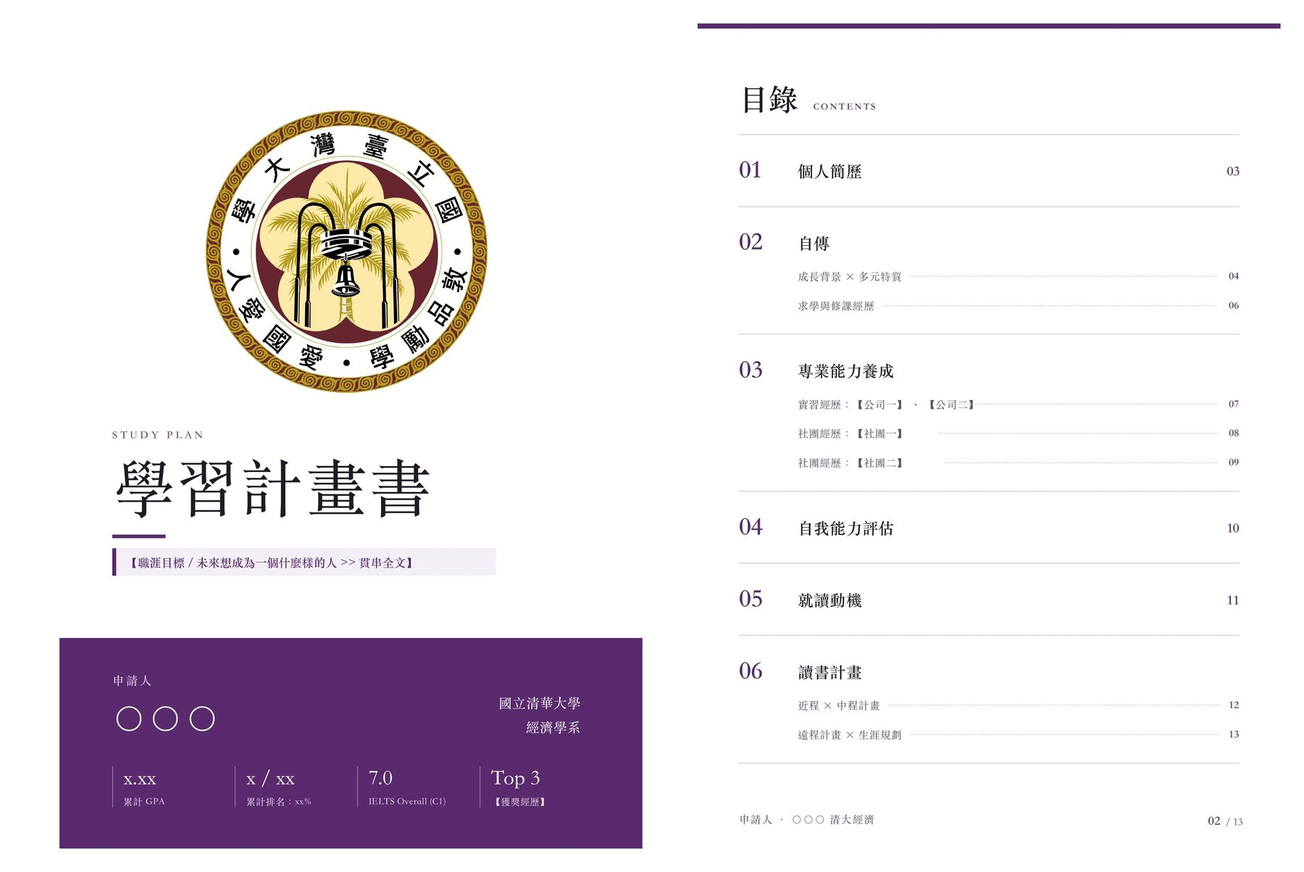
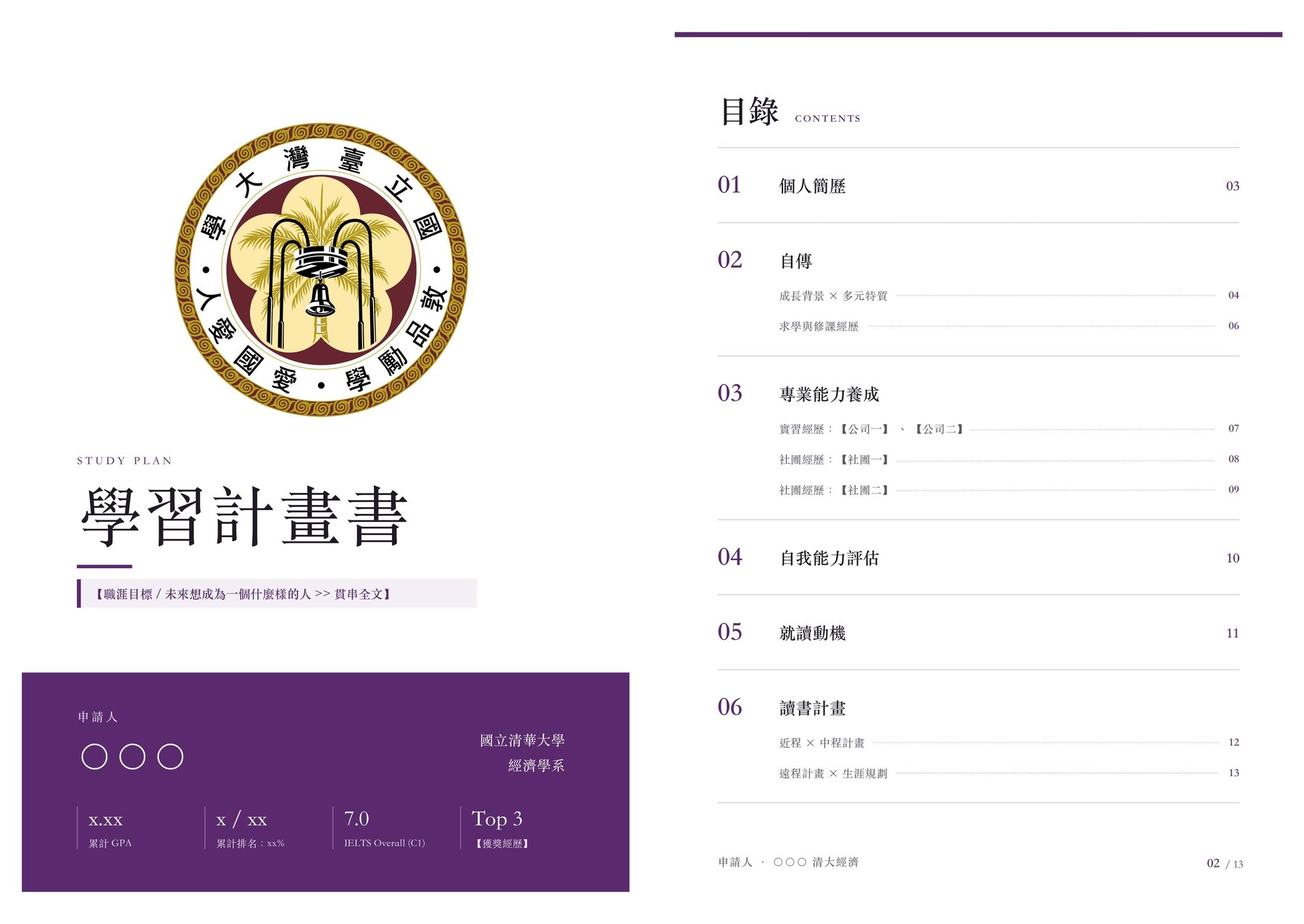
New 書審 images + 其他有利; uniform my.html column; 116 waitlist order; pin catch-up; review count; interview stage folds

diff --git a/interview.html b/interview.html
@@ -8,7 +8,7 @@
 <meta content="Royee Chu" name="author"/>
 <meta content="台大商研所、國企所推甄口試：面試題型、準備方式，以及 106–116 學年度心得文。" name="description"/>
 <script>try{var t=localStorage.getItem("theme");if(t)document.documentElement.dataset.theme=t}catch(e){}</script>
-<link href="assets/site.css?v=1795618161" rel="stylesheet"/>
+<link href="assets/site.css?v=1795760256" rel="stylesheet"/>
 <style>
 .fmt{display:grid;grid-template-columns:repeat(auto-fit,minmax(300px,1fr));gap:32px 48px}
 .fmt h3{display:flex;justify-content:space-between;align-items:baseline;padding-bottom:8px;border-bottom:2px solid var(--rule)}
@@ -21,6 +21,23 @@
 .fmt h3 .mins{color:var(--muted);font-size:13.5px;font-weight:700}
 .fmt [data-d="ba"] .stages li::before{color:var(--ba)}
 .fmt [data-d="ib"] .stages li::before{color:var(--ib)}
+.stages li>details{min-width:0}
+.stg summary{list-style:none;cursor:pointer;display:grid;grid-template-columns:1fr auto 18px;gap:12px;align-items:start}
+.stg summary::-webkit-details-marker{display:none}
+.stg summary::after{content:"+";font-size:20px;font-weight:400;line-height:1.2;color:var(--muted);text-align:right}
+.stg[open] summary::after{content:"−"}
+.fmt [data-d="ba"] .stg summary::after{color:var(--ba)}
+.fmt [data-d="ib"] .stg summary::after{color:var(--ib)}
+.stg .who{font-size:13.5px;font-weight:700;white-space:nowrap;padding-top:2px}
+.stg .who small{font-weight:400;color:var(--muted);margin-left:2px}
+.stg .body{margin-top:10px;padding:12px 14px;background:var(--bg-soft);border-radius:6px;font-size:14.5px;display:grid;gap:6px}
+.stg .body:empty{display:none}
+.stg .body .how{color:var(--muted);font-size:13.5px}
+.stg .body ol{margin:0;padding-left:20px;display:grid;gap:4px}
+.stg .body ol li{display:list-item;padding:0;border:0}
+.stg .body ol li::before{content:none}
+.stg:not(.has) summary{cursor:default}
+.stg:not(.has) summary::after{content:""}
 .more{border-bottom:1px solid var(--line)}
 .more summary{list-style:none;cursor:pointer;display:flex;justify-content:space-between;align-items:center;padding:12px 0;font-weight:800}
 .more summary::-webkit-details-marker{display:none}
@@ -59,26 +76,24 @@
 <div class="stack">
 <section>
 <div class="sec-head"><h2><span class="no">01</span>題型<small>以 116 為例</small></h2></div>
-<div class="fmt" style="max-width: none;">
+<div class="fmt">
 <div data-d="ba">
-<h3><span class="hl-ba" data-k="interview.010">商研</span> <span class="mins" data-k="interview.011">每關 4 分鐘</span></h3>
+<h3><span class="hl-ba" data-k="interview.010">商研</span> <span class="mins" data-k="interview.011">三關・每關 4 分鐘</span></h3>
 <ol class="stages">
-<li><div><b data-k="interview.012">個人關</b><span data-k="interview.013">根據個人資料表提問，一分鐘自介、就讀動機、對系所的了解</span></div></li>
-<li><div><b data-k="interview.014">英文關</b><span data-k="interview.015">自行閱讀一分鐘，摘要後回答教授追問</span></div></li>
-<li><div><b data-k="interview.016">邏輯關</b><span data-k="interview.017">立場討論，自行思考一段時間後，選一個立場說明、教授追問</span></div></li>
+<li><details class="stg"><summary><div><b data-k="interview.012">個人關</b><span data-k="interview.013">一分鐘自介，再依個人資料表追問動機與對系所的了解</span></div><span class="who" data-nokey=""></span></summary><div class="body" data-nokey=""></div></details></li>
+<li><details class="stg"><summary><div><b data-k="interview.014">英文關</b><span data-k="interview.015">五題抽一，閱讀約一分鐘後摘要、回答追問</span></div><span class="who" data-nokey=""></span></summary><div class="body" data-nokey=""></div></details></li>
+<li><details class="stg"><summary><div><b data-k="interview.016">邏輯關</b><span data-k="interview.017">九題抽一，選一個立場說明，教授再追問</span></div><span class="who" data-nokey=""></span></summary><div class="body" data-nokey=""></div></details></li>
 </ol>
-<details class="more" data-src="ba" data-what="q116" open=""><summary data-k="interview.018">116 題目</summary><div class="body" data-nokey="">載入中…</div></details>
-<details class="more" data-src="ba" data-what="tl" open=""><summary data-k="interview.019">近五年面試官</summary><div class="body" data-nokey="">載入中…</div></details>
+<details class="more" data-src="ba" data-what="tl"><summary data-k="interview.019">近五年面試官</summary><div class="body" data-nokey="">載入中…</div></details>
 </div>
 <div data-d="ib">
-<h3><span class="hl-ib" data-k="interview.020">國企</span> <span class="mins" data-k="interview.021">每關 5 分鐘</span></h3>
+<h3><span class="hl-ib" data-k="interview.020">國企</span> <span class="mins" data-k="interview.021">三關・每關 5 分鐘</span></h3>
 <ol class="stages">
-<li><div><b data-k="interview.022">英文關</b><span data-k="interview.023">A4 單面文章讀 2.5 分鐘，摘要後回答教授追問</span></div></li>
-<li><div><b data-k="interview.024">邏輯關</b><span data-k="interview.025">個案分析，今年是針對公司財務虧損進行討論</span></div></li>
-<li><div><b data-k="interview.026">個人關</b><span data-k="interview.027">今年無自介，根據成績單和個人資料表提問</span></div></li>
+<li><details class="stg"><summary><div><b data-k="interview.022">英文關</b><span data-k="interview.023">閱讀 A4 單面文章 2.5 分鐘，摘要後討論</span></div><span class="who" data-nokey=""></span></summary><div class="body" data-nokey=""></div></details></li>
+<li><details class="stg"><summary><div><b data-k="interview.024">邏輯關</b><span data-k="interview.025">個案分析，116 是咖啡品牌的財報虧損</span></div><span class="who" data-nokey=""></span></summary><div class="body" data-nokey=""></div></details></li>
+<li><details class="stg"><summary><div><b data-k="interview.026">個人關</b><span data-k="interview.027">沒有自介，依成績單與個人資料表提問</span></div><span class="who" data-nokey=""></span></summary><div class="body" data-nokey=""></div></details></li>
 </ol>
-<details class="more" data-src="ib" data-what="q116" open=""><summary data-k="interview.028">116 題目</summary><div class="body" data-nokey="">載入中…</div></details>
-<details class="more" data-src="ib" data-what="tl" open=""><summary data-k="interview.029">近五年面試官</summary><div class="body" data-nokey="">載入中…</div></details>
+<details class="more" data-src="ib" data-what="tl"><summary data-k="interview.029">近五年面試官</summary><div class="body" data-nokey="">載入中…</div></details>
 </div>
 </div>
 </section>
@@ -164,6 +179,23 @@
     return new Function(code.slice(0,code.indexOf("const $="))+"\nreturn {Q116,TL};")();
   }));
   const mk=(t,c,x)=>{const e=document.createElement(t);if(c)e.className=c;if(x!=null)e.textContent=x;return e};
+  /* 每一關：摘要列顯示 116 面試官，點開看該關題目 */
+  const CATK=k=>/英文/.test(k)?"英文":/個人|基本資料|生涯/.test(k)?"個人":"邏輯";
+  if(!(window.frameElement&&window.frameElement.id==="ed"))document.querySelectorAll(".fmt [data-d]").forEach(async blk=>{
+    try{
+      const data=await load(blk.dataset.d);
+      blk.querySelectorAll("details.stg").forEach(det=>{
+        const st=data.Q116.stages.find(x=>CATK(x.kind)===CATK(det.querySelector("summary b").textContent));if(!st)return;
+        const w=det.querySelector(".who");w.textContent=st.who;if(!st.who.includes("未知"))w.appendChild(mk("small",null,"教授"));
+        const body=det.querySelector(".body");body.textContent="";
+        const how=mk("p","how",st.how);
+        if(st.topic){how.append(" 文章：");if(st.link){const a=mk("a",null,st.topic);a.href=st.link;a.target="_blank";a.rel="noopener";how.appendChild(a)}else how.append(st.topic)}
+        body.appendChild(how);
+        const ol=mk("ol");st.q.forEach(q=>ol.appendChild(mk("li",null,q)));body.appendChild(ol);det.classList.add("has");
+      });
+    }catch(e){}
+  });
+  document.querySelectorAll("details.stg").forEach(det=>det.querySelector("summary").addEventListener("click",e=>{if(!det.classList.contains("has"))e.preventDefault()}));
   document.querySelectorAll("details.more").forEach(det=>det.addEventListener("toggle",async()=>{
     if(!det.open||det.dataset.done)return;
     const body=det.querySelector(".body");
@@ -189,8 +221,9 @@
       det.dataset.done="1";
     }catch(e){body.textContent="載入失敗，請重新整理再試"}
   }));
+  document.querySelectorAll("details.more[open]").forEach(d=>d.dispatchEvent(new Event("toggle")));
 })();
 </script>
-<script src="assets/site.js?v=1795618161"></script>
+<script src="assets/site.js?v=1795760256"></script>
 </body>
 </html>

diff --git a/my.html b/my.html
@@ -6,7 +6,7 @@
 <title>個人心得｜推甄分享｜台大商研、台大國企</title>
 <meta content="116 學年度台大商研、台大國企推甄：口試紀錄、口試與書審準備、推甄心得。" name="description"/>
 <script>try{var t=localStorage.getItem("theme");if(t)document.documentElement.dataset.theme=t}catch(e){}</script>
-<link href="assets/site.css?v=1795618161" rel="stylesheet"/>
+<link href="assets/site.css?v=1795760256" rel="stylesheet"/>
 <link rel="icon" href="favicon-32.png" type="image/png" sizes="32x32" />
 <link rel="icon" href="favicon.svg" type="image/svg+xml" />
 </head>
@@ -38,37 +38,37 @@
     <div class="prose">
     
 
-    <h3 class="stage-h" style="max-width: 700px;"><span>一、個人關<span class="who">許鉅秉教授</span></span><small>針對個人資料表提問</small></h3>
-    <ol class="qa" style="max-width: 700px;">
+    <h3 class="stage-h"><span>一、個人關<span class="who">許鉅秉教授</span></span><small>針對個人資料表提問</small></h3>
+    <ol class="qa">
       <li><p class="q">請先用一分鐘的時間介紹一下自己</p><ul class="a"><li>：教授早安，我是 OOO，很高興再次參與商研所的口試。教授打斷：再次？你不是大四嗎？</li><li>我簡單說明去年是大三推甄，繼續把自介說完。</li></ul></li>
       <li><p class="q">你覺得你去年申請跟今年有什麼不一樣？</p><ul class="a"><li>我分兩點回答：這一年做了什麼，以及有什麼轉變。</li><li>這一年做了什麼：軟性 networking＋實習 → 確立自己的職涯發展方向、並再度提到讀研動機。</li><li>轉變：職涯方向、個人心態都有轉變 → 商研所仍是我的第一志願。</li></ul></li>
       <li><p class="q">你說你想要走供應鏈，你知道我們系所有哪些教授可以幫助到你嗎？</p><ul class="a"><li>我準備了 3–4 位：最主要是ＯＯ教授（講得比較詳細），其他幾位則分別在供應鏈的ＸＸ領域可以幫助我。<br></li><li>*許教授的研究專長是物流管理，所以也有提到他本人。</li></ul></li>
       <li><p class="q">那好像也沒什麼問題可以問了，時間也快到了。</p><ul class="a"><li>：？？真的嗎，好的。那再次感謝教授願意再給我一次機會，謝謝。</li></ul></li>
     </ol>
-    <p class="after" style="max-width: 700px;">去年的個人關也是許教授，出題方向也與往年一致。以結果而言，很感謝他有看到我的成長。</p>
+    <p class="after">去年的個人關也是許教授，出題方向也與往年一致。以結果而言，很感謝他有看到我的成長。</p>
 
-    <h3 class="stage-h" style="max-width: 700px;"><span>二、英文關<span class="who">劉怡靖教授</span></span><small>抽題、摘要與追問</small></h3>
-    <ol class="qa" style="max-width: 700px;">
+    <h3 class="stage-h"><span>二、英文關<span class="who">劉怡靖教授</span></span><small>抽題、摘要與追問</small></h3>
+    <ol class="qa">
       <li class="pre"><p class="q">桌上有五題，我拿了正中間的題目，自行閱讀一分鐘後回答問題。</p><ul class="a"><li>已知可能讀不太完就用掃的，結果根本不知道什麼是 Target，還以為是百貨公司⋯⋯</li><li>文章：<a href="https://www.businessinsider.com/target-revamped-soho-store-in-new-york-photos-2026-10" target="_blank" rel="noopener">Target revamped SoHo store in New York</a></li></ul></li>
       <li><p class="q">請摘要這篇文章。</p><ul class="a"><li>：大概是在說 Target 把日用品擺到店內最主要的區域。</li></ul></li>
       <li><p class="q">你覺得 Target 為什麼會做這樣的調整？會帶來什麼影響？</p><ul class="a"><li>：我印象中是說可以增加銷量，顧客也能更快買到想要的東西。</li></ul></li>
       <li><p class="q">你覺得 Target 的做法有什麼風險？</p><ul class="a"><li>：可能犧牲高單價商品的銷量，如果日用品銷量沒有衝起來，營收反而會下降。</li></ul></li>
     </ol>
-    <p class="after" style="max-width: 960px;">我根本亂答一通⋯⋯，教授全程沒什麼表情。</p>
+    <p class="after">我根本亂答一通⋯⋯，教授全程沒什麼表情。</p>
 
-    <h3 class="stage-h" style="max-width: 710px;"><span>三、邏輯關<span class="who">柯冠州教授</span></span><small>抽題、選擇立場與追問</small></h3>
-    <ol class="qa" style="max-width: 710px;">
+    <h3 class="stage-h"><span>三、邏輯關<span class="who">柯冠州教授</span></span><small>抽題、選擇立場與追問</small></h3>
+    <ol class="qa">
       <li class="pre"><p class="q">桌上有九題，我一樣拿了正中間的。看完題目後有思考時間，可隨時開始說明。</p></li>
       <li><p class="q">題目大致如下：有些人認為 AI 可以降低創作者的成本，有助影視產業發展；有些人則認為 AI 會摧毀影視產業的創作。選擇一個立場並說明觀點。</p><ul class="a"><li>：我認為是有益的，可以吸引更多人投入創作⋯⋯（說了兩個原因，忘了另一個）；也分析了弊端，市場機制會淘汰劣質的 AI 作品⋯⋯，最後重申利大於弊。</li></ul></li>
       <li><p class="q">追問一：那 AI 可以如何幫助傳統電視、電影產業呢？</p><ul class="a"><li>：短影音之類的（忘記自己說什麼了）⋯⋯</li></ul></li>
       <li><p class="q">追問二：除了這個還有其他方法嗎？</p><ul class="a"><li>：我覺得可以從傳統電視、電影產業的受眾來看⋯⋯</li></ul></li>
     </ol>
-    <p class="after" style="max-width: 710px;">兩題追問都答得不太好，好像也根本沒有把 AI 當成主要的手段，但有盡可能把我腦中思考的脈絡講出來。</p>
+    <p class="after">兩題追問都答得不太好，好像也根本沒有把 AI 當成主要的手段，但有盡可能把我腦中思考的脈絡講出來。</p>
   </div>
   </div>
   <h3 class="rec-dept d-ib">國企<small>三關，各五分鐘</small></h3><div class="rec" data-rec="ib"><div class="prose">
 
-    <h3 class="stage-h" style="max-width: 720px;"><span>一、英文關<span class="who">林宏璋教授</span></span><small>閱讀 A4 單面文章 2.5 分鐘後摘要、討論</small></h3>
+    <h3 class="stage-h"><span>一、英文關<span class="who">林宏璋教授</span></span><small>閱讀 A4 單面文章 2.5 分鐘後摘要、討論</small></h3>
     <ol class="qa">
       <li class="pre"><p class="q">進去前工讀生會給一篇文章。自行閱讀兩分半，聽到敲門聲後回答問題。</p><ul class="a"><li>閱讀時間很充裕，大約還有 30 秒左右的時間可以先想摘要的架構。</li><li>文章：<a href="https://www.bloomberg.com/news/articles/2025-12-04/trump-s-ai-dominance-plans-threatened-by-his-own-attacks-on-solar-wind" target="_blank" rel="noopener">Trump’s AI Dominance Plans Threatened by His Own Attacks on Solar, Wind</a></li></ul></li>
       <li><p class="q">今天過得如何？</p><ul class="a"><li>我回答自己很緊張但也很興奮，試圖展現出自信與熱情，跟教授相視而笑了一下。</li></ul></li>
@@ -86,7 +86,7 @@
     </ol>
 
     <h3 class="stage-h"><span>三、個人關<span class="who">洪茂蔚教授</span></span><small>針對個人履歷提問</small></h3>
-    <ol class="qa" style="max-width: 720px;">
+    <ol class="qa">
       <li class="pre"><p class="q">沒有自我介紹。<small>教授在聽我說話的同時，大約 80% 時間在翻成績單，另外 20% 看個人資料表。</small></p></li>
       <li><p class="q">阿你中央經濟轉到清大又讀經濟哦⋯⋯，說說看你這些社團經驗，有沒有能展現領導力的部分？</p><ul class="a"><li>我舉了兩個社團的例子。都是微調 STAR 架構：縮短 S、T，把重點放在我身為領導者怎麼解決問題。</li><li>教授有釐清、追問兩點，不是什麼刁鑽問題，就稍微跟他解釋了一下。</li></ul></li>
       <li><p class="q">這（成績單）上面有沒有一個你最喜歡 / 收穫最多 / 影響最深，或讓你最後選擇國企所的課程？</p><ul class="a"><li>我的選修課大部分是個經相關、都是 A+，也有跨校修相關課程。可以說是真的有熱忱，職涯目標串成完整的 storyline。</li><li>原本答得很自信，結果反問我：有沒有修國企、國經、全球經濟相關課程⋯⋯。我回答沒有，過去修課以個經為主（對那些沒什麼興趣）。</li></ul></li>
@@ -135,6 +135,6 @@
 </section>
 </div>
 </main>
-<script src="assets/site.js?v=1795618161"></script>
+<script src="assets/site.js?v=1795760256"></script>
 </body>
 </html>

diff --git a/sharing.html b/sharing.html
@@ -8,7 +8,7 @@
 <meta content="Royee Chu" name="author"/>
 <meta content="台大商研所、國企所碩士班甄試：名額、口試資格、應繳資料與歷年時程。" name="description"/>
 <script>try{var t=localStorage.getItem("theme");if(t)document.documentElement.dataset.theme=t}catch(e){}</script>
-<link href="assets/site.css?v=1795618161" rel="stylesheet"/>
+<link href="assets/site.css?v=1795760256" rel="stylesheet"/>
 <style>
 .cmp-scroll{overflow-x:auto}
 table.cmp{border-collapse:collapse;width:100%;min-width:540px;font-size:15px}
@@ -146,14 +146,14 @@ table.cmp.yrs{min-width:0}
 <h3 class="sub-h"><span class="hl-ba" data-k="sharing.107">商研</span></h3>
 <table class="cmp yrs stat">
 <thead><tr><th scope="col"></th><th data-k="sharing.108" scope="col">報名</th><th data-k="sharing.109" scope="col">正取</th><th data-k="sharing.110" scope="col">備取</th><th data-k="sharing.111" scope="col">備取序</th></tr></thead>
-<tbody><tr><th data-k="sharing.112" scope="row">116</th><td data-k="sharing.113">308</td><td data-k="sharing.114">33</td><td data-k="sharing.115">14</td><td><span class="na" data-k="sharing.116">待公布</span></td></tr><tr><th data-k="sharing.117" scope="row">115</th><td data-k="sharing.118">325</td><td data-k="sharing.119">33</td><td data-k="sharing.120">14</td><td data-k="sharing.121"><b class="n-ba">3</b></td></tr><tr><th data-k="sharing.122" scope="row">114</th><td data-k="sharing.123">344</td><td data-k="sharing.124">33</td><td data-k="sharing.125">16</td><td data-k="sharing.126">5</td></tr><tr><th data-k="sharing.127" scope="row">113</th><td data-k="sharing.128">304</td><td data-k="sharing.129">33</td><td data-k="sharing.130">15</td><td data-k="sharing.131">10</td></tr><tr><th data-k="sharing.132" scope="row">112</th><td data-k="sharing.133">267</td><td data-k="sharing.134">33</td><td data-k="sharing.135">15</td><td data-k="sharing.136">4</td></tr></tbody>
+<tbody><tr><th data-k="sharing.112" scope="row">116</th><td data-k="sharing.113">308</td><td data-k="sharing.114">33</td><td data-k="sharing.115">14</td><td data-k="sharing.116"><b class="n-ba">8</b></td></tr><tr><th data-k="sharing.117" scope="row">115</th><td data-k="sharing.118">325</td><td data-k="sharing.119">33</td><td data-k="sharing.120">14</td><td data-k="sharing.121"><b class="n-ba">3</b></td></tr><tr><th data-k="sharing.122" scope="row">114</th><td data-k="sharing.123">344</td><td data-k="sharing.124">33</td><td data-k="sharing.125">16</td><td data-k="sharing.126">5</td></tr><tr><th data-k="sharing.127" scope="row">113</th><td data-k="sharing.128">304</td><td data-k="sharing.129">33</td><td data-k="sharing.130">15</td><td data-k="sharing.131">10</td></tr><tr><th data-k="sharing.132" scope="row">112</th><td data-k="sharing.133">267</td><td data-k="sharing.134">33</td><td data-k="sharing.135">15</td><td data-k="sharing.136">4</td></tr></tbody>
 </table>
 </div>
 <div data-d="ib">
 <h3 class="sub-h"><span class="hl-ib" data-k="sharing.137">國企</span></h3>
 <table class="cmp yrs stat">
 <thead><tr><th scope="col"></th><th data-k="sharing.138" scope="col">報名</th><th data-k="sharing.139" scope="col">正取</th><th data-k="sharing.140" scope="col">備取</th><th data-k="sharing.141" scope="col">備取序</th></tr></thead>
-<tbody><tr><th data-k="sharing.142" scope="row">116</th><td data-k="sharing.143">328</td><td data-k="sharing.144">33</td><td data-k="sharing.145">30</td><td><span class="na" data-k="sharing.146">待公布</span></td></tr><tr><th data-k="sharing.147" scope="row">115</th><td data-k="sharing.148">334</td><td data-k="sharing.149">33</td><td data-k="sharing.150">33</td><td><b class="n-ib" data-k="sharing.151">32</b><small data-k="sharing.152"><mark class="g">缺額 5</mark></small></td></tr><tr><th data-k="sharing.153" scope="row">114</th><td data-k="sharing.154">312</td><td data-k="sharing.155">33</td><td data-k="sharing.156">25</td><td><span data-k="sharing.157">25</span><small data-k="sharing.158">缺額 1</small></td></tr><tr><th data-k="sharing.159" scope="row">113</th><td data-k="sharing.160">298</td><td data-k="sharing.161">33</td><td data-k="sharing.162">25</td><td data-k="sharing.163"><b class="n-ib">14</b></td></tr><tr><th data-k="sharing.164" scope="row">112</th><td data-k="sharing.165">262</td><td data-k="sharing.166">33</td><td data-k="sharing.167">25</td><td data-k="sharing.168">25</td></tr></tbody>
+<tbody><tr><th data-k="sharing.142" scope="row">116</th><td data-k="sharing.143">328</td><td data-k="sharing.144">33</td><td data-k="sharing.145">30</td><td data-k="sharing.146"><b class="n-ib">20</b></td></tr><tr><th data-k="sharing.147" scope="row">115</th><td data-k="sharing.148">334</td><td data-k="sharing.149">33</td><td data-k="sharing.150">33</td><td><b class="n-ib" data-k="sharing.151">32</b><small data-k="sharing.152"><mark class="g">缺額 5</mark></small></td></tr><tr><th data-k="sharing.153" scope="row">114</th><td data-k="sharing.154">312</td><td data-k="sharing.155">33</td><td data-k="sharing.156">25</td><td><span data-k="sharing.157">25</span><small data-k="sharing.158">缺額 1</small></td></tr><tr><th data-k="sharing.159" scope="row">113</th><td data-k="sharing.160">298</td><td data-k="sharing.161">33</td><td data-k="sharing.162">25</td><td data-k="sharing.163"><b class="n-ib">14</b></td></tr><tr><th data-k="sharing.164" scope="row">112</th><td data-k="sharing.165">262</td><td data-k="sharing.166">33</td><td data-k="sharing.167">25</td><td data-k="sharing.168">25</td></tr></tbody>
 </table>
 </div>
 </div>
@@ -182,6 +182,6 @@ document.querySelectorAll(".cmp.yrs:not(.stat)").forEach(t=>{if(t.closest(".oral
   fit();document.fonts&&document.fonts.ready.then(fit);
 });
 </script>
-<script src="assets/site.js?v=1795618161"></script>
+<script src="assets/site.js?v=1795760256"></script>
 </body>
 </html>

diff --git a/docs.html b/docs.html
@@ -8,7 +8,7 @@
 <meta content="Royee Chu" name="author"/>
 <meta content="台大商研所、國企所推甄書審：個人資料表、學習計畫書、其他有利審查資料與 Checklist。" name="description"/>
 <script>try{var t=localStorage.getItem("theme");if(t)document.documentElement.dataset.theme=t}catch(e){}</script>
-<link href="assets/site.css?v=1795618161" rel="stylesheet"/>
+<link href="assets/site.css?v=1795760256" rel="stylesheet"/>
 
 <link rel="icon" href="favicon-32.png" type="image/png" sizes="32x32" />
 <link rel="icon" href="favicon.svg" type="image/svg+xml" />
@@ -31,8 +31,8 @@
 <p><mark>整包申請中最重要的一項</mark>，我是學習計劃書完成才回來寫。<mark>書審階段要精心打磨，口試時要能侃侃而談</mark>。</p>
 <h3>一、揚長避短</h3>
 <ol><li>盡可能展現自己優勢中相對強勢的部分、避免過多著墨於優勢中的劣勢。<br><small>eg. 多益 860-895 &gt; 金色，900+ &gt; 直接寫分數</small></li><li>口試時，教授勢必會在其中挑 1-2 題來問，其中<mark>社團經歷更是考古題中的常客</mark>，建議花點心思準備。</li></ol><h3>二、視覺化
-</h3><ol><li>將欄位以表格的形式呈現，展現資訊呈現的功力，也能突顯個人的亮點。</li><li>商研所限制較多，有既定的格式、書寫要求（僅能列點說明）；國企所雖限 1 頁但有更大排版彈性，可以在欄位內自由運用。</li></ol><p>不過，我認為<mark>最重要還是展現個人故事線</mark>。我自己不到 900 分但還是放了分數，因為我想展現我後來我的英文能力是有成長的（雅思），事實上也真的在口試被問到。當然這沒有一個放諸四海的標準，就看個人選擇。</p><div class="shots pair"><figure class="shot" style="flex:0.74"><img loading="lazy" src="img/profile-1.jpg" alt=""><figcaption><small>116 商研 [節錄範例]</small></figcaption></figure>
-<figure class="shot" style="flex:2.145"><img loading="lazy" src="img/profile-2.jpg" alt=""><figcaption><small>116 國企 [節錄範例]</small></figcaption></figure>
+</h3><ol><li>將欄位以表格的形式呈現，展現資訊呈現的功力，也能突顯個人的亮點。</li><li>商研所限制較多，有既定的格式、書寫要求（僅能列點說明）；國企所雖限 1 頁但有更大排版彈性，可以在欄位內自由運用。</li></ol><p>不過，我認為<mark>最重要還是展現個人故事線</mark>。我自己不到 900 分但還是放了分數，因為我想展現我後來我的英文能力是有成長的（雅思），事實上也真的在口試被問到。當然這沒有一個放諸四海的標準，就看個人選擇。</p><div class="shots pair"><figure class="shot" style="flex:0.796"><img loading="lazy" src="img/profile-1.jpg?v=1795760256" alt=""><figcaption><small>116 商研 [節錄範例]</small></figcaption></figure>
+<figure class="shot" style="flex:2.148"><img loading="lazy" src="img/profile-2.jpg?v=1795760256" alt=""><figcaption><small>116 國企 [節錄範例]</small></figcaption></figure>
 </div>
 
 </div>
@@ -44,8 +44,8 @@
 <h3>一、封面、目錄、簡歷</h3>
 <h4>1. 封面、目錄｜</h4><p>見仁見智，可做可不做。若要做封面就得好好設計，畢竟是第一頁。封面我是放了 1–2 句話點出我的兩條故事線（我是誰、我想做啥），搭配 3–4 組數據（GPA、排名、獎項、檢定成績）。由於我的故事線不適合把動機寫在書審資料的前半段，因此有做目錄讓對動機比較感興趣的教授可以直接跳轉。</p><h4>2. 個人簡歷｜</h4><p>再次提及書審的兩條故事線（同封面），感覺放 CV 怪怪的，還是參考排版客製化了一份。</p>
 <div class="shots pair">
-<figure class="shot" style="flex:1.496"><img loading="lazy" src="img/plan-0.jpg" alt=""><figcaption>封面、目錄</figcaption></figure>
-<figure class="shot" style="flex:0.736"><img loading="lazy" src="img/plan-cv.jpg" alt=""><figcaption>個人簡歷</figcaption></figure>
+<figure class="shot" style="flex:1.412"><img loading="lazy" src="img/plan-0.jpg?v=1795760256" alt=""><figcaption>封面、目錄</figcaption></figure>
+<figure class="shot" style="flex:0.707"><img loading="lazy" src="img/plan-cv.jpg?v=1795760256" alt=""><figcaption>個人簡歷</figcaption></figure>
 </div>
 <h3>二、自傳、求學經歷</h3>
 <p>成長背景簡單帶過，把區塊獨立出來，它的功能是銜接：我是如何建立起以下這些特質的</p>
@@ -69,9 +69,9 @@
 </section>
 <section>
 <div class="sec-head"><h2><span class="no">04</span>其他有利審查資料</h2></div>
-<div class="prose"><p>建議將檔案控制在 1～3 頁內，我自己是分為學業與課外經歷各整理成一頁。也延續書審資料的排版風格，維持所有書審資料的一致性。</p><p class="note">（這邊放圖片）</p></div></section>
+<div class="prose"><p>建議將檔案控制在 1～3 頁內，我自己是分為學業與課外經歷各整理成一頁。也延續書審資料的排版風格，維持所有書審資料的一致性。</p><figure class="shot wide"><img loading="lazy" src="img/plan-6.jpg" alt="其他有利審查資料"><figcaption>其他有利審查資料</figcaption></figure></div></section>
 </div>
 </main>
-<script src="assets/site.js?v=1795618161"></script>
+<script src="assets/site.js?v=1795760256"></script>
 </body>
 </html>

diff --git a/reviews.html b/reviews.html
@@ -8,7 +8,7 @@
 <meta content="Royee Chu" name="author"/>
 <meta content="台大商研、台大國企 106–115 學年度推甄心得文：書籤、好讀版、依學年度整理。" name="description"/>
 <script>try{var t=localStorage.getItem("theme");if(t)document.documentElement.dataset.theme=t}catch(e){}</script>
-<link href="assets/site.css?v=1795618161" rel="stylesheet"/>
+<link href="assets/site.css?v=1795760256" rel="stylesheet"/>
 <style>
 .fmt{display:grid;grid-template-columns:repeat(auto-fit,minmax(300px,1fr));gap:32px 48px}
 .fmt h3{display:flex;justify-content:space-between;align-items:baseline;padding-bottom:8px;border-bottom:2px solid var(--rule)}
@@ -56,13 +56,13 @@
 </header>
 <div class="stack">
 <section id="src-sec">
-<div class="sec-head"><h2><span class="no">01</span><span data-k="interview.043">歷年心得文</span></h2></div>
+<div class="sec-head"><h2><span class="no">01</span><span data-k="interview.043">歷年心得文</span><small id="src-n" data-nokey=""></small></h2></div>
 <div data-nokey="" id="src"></div>
 </section>
 </div>
 </main>
-<script src="assets/sources.js?v=1795618161"></script>
-<script>renderSources(document.getElementById("src"));</script>
-<script src="assets/site.js?v=1795618161"></script>
+<script src="assets/sources.js?v=1795760256"></script>
+<script>renderSources(document.getElementById("src"));document.getElementById("src-n").textContent="共 "+SOURCES.filter(s=>s.site!=="own").length+" 篇";</script>
+<script src="assets/site.js?v=1795760256"></script>
 </body>
 </html>

diff --git a/index.html b/index.html
@@ -8,7 +8,7 @@
 <meta content="Royee Chu" name="author"/>
 <meta content="台大商研所、國企所碩士班推甄：簡章重點、教授、歷年面試官與心得文、書審和口試準備。" name="description"/>
 <script>try{var t=localStorage.getItem("theme");if(t)document.documentElement.dataset.theme=t}catch(e){}</script>
-<link href="assets/site.css?v=1795618161" rel="stylesheet"/>
+<link href="assets/site.css?v=1795760256" rel="stylesheet"/>
 <style>
 .mast{padding-block:48px 28px;border-bottom:3px solid var(--rule);display:grid;gap:22px}
 .issue{display:flex;flex-wrap:wrap;gap:4px 18px;font-size:13.5px;font-weight:700;color:var(--faint)}
@@ -82,6 +82,6 @@
 </div>
 </main>
 <script>{const d=new Date(),w='日一二三四五六'[d.getDay()],t=document.querySelector('.today');if(t)t.textContent='Today: '+d.getFullYear()+'/'+(d.getMonth()+1)+'/'+d.getDate()+'（'+w+'）'}</script>
-<script src="assets/site.js?v=1795618161"></script>
+<script src="assets/site.js?v=1795760256"></script>
 </body>
 </html>

diff --git a/assets/sources.js b/assets/sources.js
@@ -81,6 +81,11 @@ function renderSources(box,opts){
   const short=s=>s.s||(s.y+" "+(s.site==="own"?"口試紀錄":"推甄分享")+"｜"+s.d.map(d=>"台大"+DEPT_NAME[d]).join("、"));
   let uni=get("src-short",false);
   let fav=get("src-fav",null);if(!Array.isArray(fav))fav=SOURCES.filter(s=>s.pin).map(s=>s.u);
+  /* 後台新勾選的預設書籤：已存過書籤的訪客也補上一次（之後訪客自己移除就不再加回） */
+  {const pins=SOURCES.filter(s=>s.pin).map(s=>s.u);let seen=get("src-pinseen",null);
+   if(!Array.isArray(seen))seen=fav.slice();
+   pins.filter(u=>!seen.includes(u)&&!fav.includes(u)).forEach(u=>fav.unshift(u));
+   set("src-pinseen",[...new Set(seen.concat(pins))]);set("src-fav",fav.slice(0,FAV_MAX))}
   fav=fav.filter(u=>SOURCES.some(s=>s.u===u)).slice(0,FAV_MAX);
 
   const item=s=>{

diff --git a/faq.html b/faq.html
@@ -8,7 +8,7 @@
 <meta content="Royee Chu" name="author"/>
 <meta content="台大商研所、國企所推甄常見問題：推薦信、成績、跨領域、兩所一起報、網路口試、報到與遞補。" name="description"/>
 <script>try{var t=localStorage.getItem("theme");if(t)document.documentElement.dataset.theme=t}catch(e){}</script>
-<link href="assets/site.css?v=1795618161" rel="stylesheet"/>
+<link href="assets/site.css?v=1795760256" rel="stylesheet"/>
 <style>
 .faq-cols{display:grid;grid-template-columns:repeat(2,minmax(0,1fr));gap:48px 56px;margin-top:24px;align-items:start}
 @media (max-width:820px){.faq-cols{grid-template-columns:1fr}}
@@ -76,6 +76,6 @@
 </section>
 </div>
 </main>
-<script src="assets/site.js?v=1795618161"></script>
+<script src="assets/site.js?v=1795760256"></script>
 </body>
 </html>

diff --git a/admin.html b/admin.html
@@ -5,8 +5,8 @@
 <meta content="width=device-width,initial-scale=1" name="viewport"/>
 <meta name="robots" content="noindex,nofollow"/>
 <title>後台</title>
-<link href="assets/site.css?v=1795618161" rel="stylesheet"/>
-<link href="assets/admin.css?v=1795618161" rel="stylesheet"/>
+<link href="assets/site.css?v=1795760256" rel="stylesheet"/>
+<link href="assets/admin.css?v=1795760256" rel="stylesheet"/>
 <link rel="icon" href="favicon.svg" type="image/svg+xml" />
 </head>
 <body class="adm">
@@ -69,6 +69,6 @@
 </div>
 <input id="file" type="file" accept="image/*" hidden>
 <p id="toast" class="adm-toast" role="status"></p>
-<script src="assets/admin.js?v=1795618161"></script>
+<script src="assets/admin.js?v=1795760256"></script>
 </body>
 </html>

diff --git a/ba.html b/ba.html
@@ -7,7 +7,7 @@
 <meta name="author" content="Royee Chu">
 <meta name="description" content="商研歷年面試官：研究領域、開課與歷年推甄面試官。">
 <script>try{var t=localStorage.getItem("theme");if(t)document.documentElement.dataset.theme=t}catch(e){}</script>
-<link rel="stylesheet" href="assets/site.css?v=1795618161">
+<link rel="stylesheet" href="assets/site.css?v=1795760256">
 <style>
 .note{font-size:13px;color:var(--muted);margin:0}
 
@@ -442,6 +442,6 @@ function follow(){const h=decodeURIComponent(location.hash.slice(1));
 }
 follow();window.addEventListener("hashchange",follow);
 </script>
-<script src="assets/site.js?v=1795618161"></script>
+<script src="assets/site.js?v=1795760256"></script>
 </body>
 </html>

diff --git a/ib.html b/ib.html
@@ -7,7 +7,7 @@
 <meta name="author" content="Royee Chu">
 <meta name="description" content="國企歷年面試官：研究領域、開課與歷年推甄面試官。">
 <script>try{var t=localStorage.getItem("theme");if(t)document.documentElement.dataset.theme=t}catch(e){}</script>
-<link rel="stylesheet" href="assets/site.css?v=1795618161">
+<link rel="stylesheet" href="assets/site.css?v=1795760256">
 <style>
 .note{font-size:13px;color:var(--muted);margin:0}
 
@@ -450,6 +450,6 @@ function follow(){const h=decodeURIComponent(location.hash.slice(1));
 }
 follow();window.addEventListener("hashchange",follow);
 </script>
-<script src="assets/site.js?v=1795618161"></script>
+<script src="assets/site.js?v=1795760256"></script>
 </body>
 </html>

diff --git a/assets/site.css b/assets/site.css
@@ -396,7 +396,7 @@ ol[data-check] li small,ul[data-check] li small,.files li small{display:block;co
 .lidx .sub a:hover{color:var(--ink)}
 /* 文章版（書審頁）：預設靠左，內文與分隔線寬 960；圖片靠左。訪客可切換「置中」 */
 body.article main>.stack{max-width:770px}
-body.article .prose>*{max-width:none}
+body.article .prose>*{max-width:none!important}
 body.article .prose>figure.shot.wide,body.article .prose>.shots.pair{width:100%;max-width:none;justify-self:stretch}
 html[data-lay="c"] body.article main>.stack{margin-left:auto;margin-right:auto}
 body.article .page-head{grid-template-columns:1fr auto}
